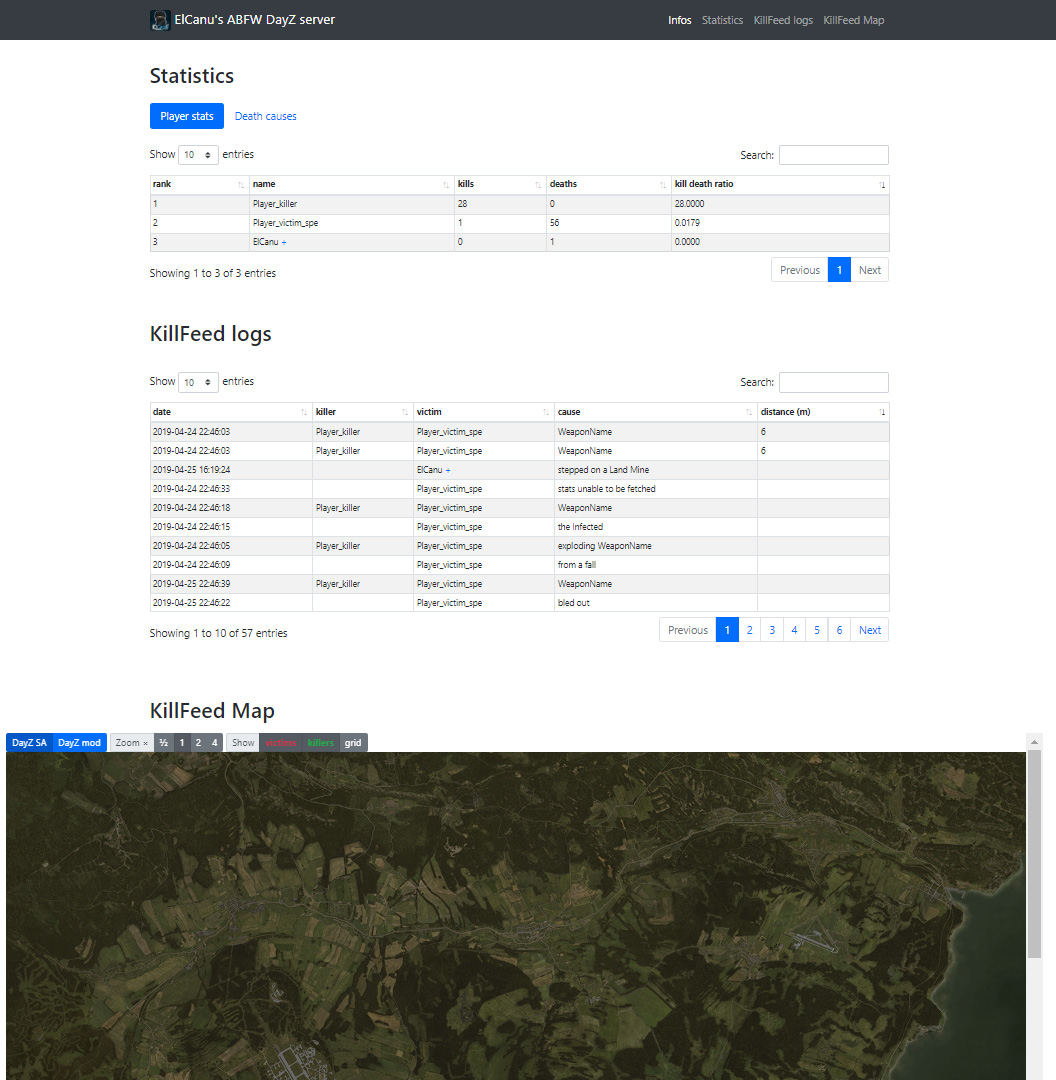
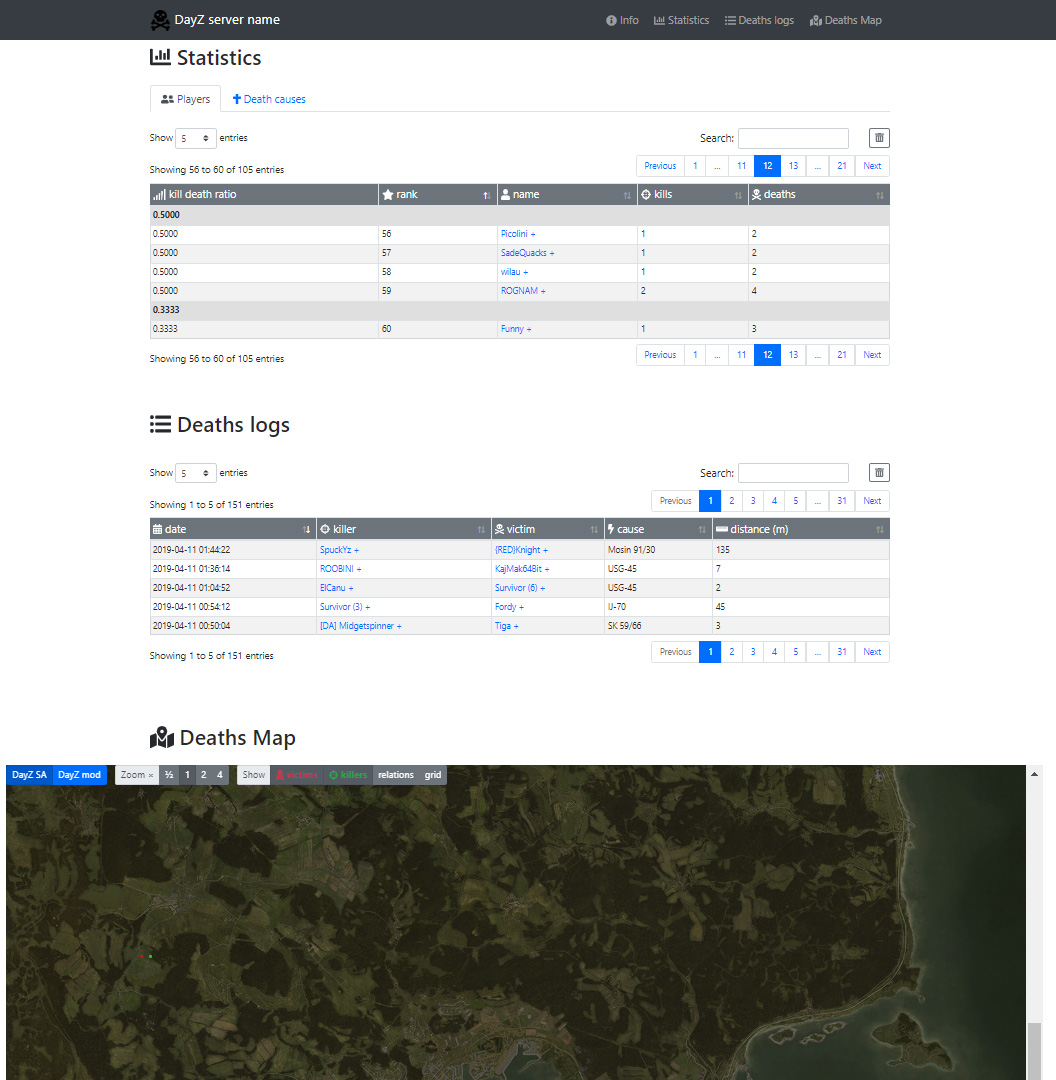
update README, screenshot, config.php

diff --git a/website/config.php b/website/config.php
@@ -2,11 +2,11 @@
 // WEBSITE INFO
 $CONFIG['WEBSITE_TITLE'] = "ElCanu's ABFW DayZ server";
 $CONFIG['WEBSITE_IMG'] = 'https://steamcdn-a.akamaihd.net/steamcommunity/public/images/avatars/89/89783c79efdebec2cbacb438c39a1439e261abc9.jpg';  // 'img/avatar.png';
-$CONFIG['use_info_section'] = true;                // Show info section on the website (infos.php)
+$CONFIG['use_info_section'] = false;                // Show info section on the website (infos.php)
 
 // ENABLE/DISABLE FUNCTIONALITIES
 $CONFIG['link_to_user_steam_profile'] = true;       // (Spoiler alert!)
-$CONFIG['show_deaths_on_map'] = true;               // Displays deaths/kills on the map (spoiler alert!)
+$CONFIG['show_deaths_on_map'] = true;               // displays deaths/kills on the map (spoiler alert!)
 $CONFIG['show_death_details_on_map'] = true;        // show info about each kill on the map (who killed who, spoiler alert!)
 
 // DATABASE connexion
@@ -16,6 +16,6 @@ $CONFIG['db_base'] = 'dayzstats';                   // database name
 $CONFIG['db_user'] = 'root';                        // database Login
 $CONFIG['db_pass'] = '';                            // database password
 
-// Ignore if using DATABASE connexion
+// Ignore these settings if using DATABASE connexion
 $CONFIG['DEBUG'] = true;                            // show number of unpasred deaths (for debugging purposes)
-$CONFIG['logfile'] = 'KillFeed/KillFeed_test.log';  // filepath to Cleetus KillFeed mod log file
+$CONFIG['logfile'] = 'KillFeed/KillFeed_test.log';  // relative filepath to Cleetus KillFeed mod log file

diff --git a/README.md b/README.md
@@ -1,8 +1,8 @@
-*Paris, France, April 2019*
+*Paris, France, April-May 2019*
 
 # dayzstats
 
-**Work currently in progress...** (made for ElCanu's ABFW DayZ SA server)
+**Work in progress...** (made for ElCanu's ABFW DayZ SA server)
 
 ![Screenshot](/screenshot.jpg?raw=true)
 
@@ -40,18 +40,18 @@
   - Node.js installed on your server
 
 ## Installation
-- `git clone https://github.com/ldeb/dayzstats.git` to your desired folder
+- `git clone https://github.com/ldeb/dayz-death-stats.git` to your desired folder
 - **[optional] Installation for browsing results in a web server**
   - host `website/` folder with your web server
-  - Edit *config.php* to set the filepath of the default log file and other options
-  - Edit *infos.php* file to personalize website description
+  - Edit *config.php* to set various options
+  - Edit *infos.php* file to personalize website info section
 - **[optional] Installation for posting to a Discord channel / logging to a database**
   - Rename *config.default.json* to *config.json* and edit necessary variables and activate desired functionalities (`"LOG_TO_DISCORD": true`, `"LOG_TO_DATABASE": true`)
   - **[optional for posting to Discord]**
     - Create a Discord webhook on your discord server channel, then update your webhook URL in *config.json* (`webhook_url_errors` variable is optional)
   - **[optional for logging to a database]**
-    - Create a new database on your MySQL server (using an utf8 charset, exemple: `utf8_general_ci`), then update your connection info in *config.json* (`db_host`, `db_base`, `db_user`, `db_pass`)
-    - Excecute [dayzstats.sql](https://github.com/ldeb/dayzstats/blob/master/dayzstats.sql) script in your database to create the necessary tables
+    - Create a new database on your MySQL server (using an utf8 charset, exemple: `utf8_general_ci`), then update your connection info in *config.json* and *config.php* (`db_host`, `db_base`, `db_user`, `db_pass`)
+    - Execute/import [dayz-death-stats.sql](https://github.com/ldeb/dayzstats/blob/master/dayz-death-stats.sql) script in your database to create the necessary tables
   - [install node.js](https://nodejs.org/en/download/) on your server
   - go to the current cloned directory and install script dependencies with `npm install`
   - run script with command `node server.js`
